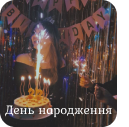
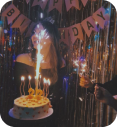
changed homescreen

diff --git a/mobile/app/(tabs)/HomeScreen.tsx b/mobile/app/(tabs)/HomeScreen.tsx
@@ -57,41 +57,102 @@ const HomeScreen: React.FC = () => {
                     </TouchableOpacity>
                 </ScrollView>
 
-                <Text style={styles.sectionTitle}>Топ пакетів</Text>
+                <Text style={styles.sectionTitle}>Топ послуг</Text>
                 <ScrollView horizontal={true} showsHorizontalScrollIndicator={false} style={styles.topPackages}>
                     <View style={styles.packageItem}>
                         <Image source={require('../../assets/images/birthday.png')} style={styles.packageImage} />
-                        <Text style={styles.packageText}></Text>
+                        <View style={styles.packageLabel}>
+                            <Text style={styles.packageLabelText}>День народження</Text>
+                        </View>
                     </View>
                     <View style={styles.packageItem}>
-                        <Image source={require('../../assets/images/wedding.png')} style={styles.packageImage} />
-                        <Text style={styles.packageText}></Text>
+                        <Image source={require('../../assets/images/birthday.png')} style={styles.packageImage} />
+                        <View style={styles.packageLabel}>
+                            <Text style={styles.packageLabelText}>День народження</Text>
+                        </View>
                     </View>
                     <View style={styles.packageItem}>
-                        <Image source={require('../../assets/images/rip.png')} style={styles.packageImage} />
-                        <Text style={styles.packageText}></Text>
+                        <Image source={require('../../assets/images/birthday.png')} style={styles.packageImage} />
+                        <View style={styles.packageLabel}>
+                            <Text style={styles.packageLabelText}>День народження</Text>
+                        </View>
                     </View>
                 </ScrollView>
 
-                <Text style={styles.topServicesTitle}>Топ послуг:</Text>
-                <View style={styles.servicesContainer}>
-                    <View style={styles.serviceItem}>
-                        <Text style={styles.serviceTitle}>Флористика</Text>
-                        <Text style={styles.serviceDescription}>— оформлення квітами та композиції.</Text>
+                <Text style={styles.topPackagesTitle}>Топ пакетів:</Text>
+                <ScrollView horizontal={false} showsVerticalScrollIndicator={false} style={styles.topPackagesWrapper}>
+                    <View style={styles.topPackageCard}>
+                        <Image source={require('../../assets/images/birthday.png')} style={styles.topPackageImage} />
+                        <View style={styles.topPackageDetails}>
+                            <Text style={styles.topPackageTitle}>День народження</Text>
+                            <View style={styles.topPackageRating}>
+                                {[...Array(5)].map((_, index) => (
+                                    <FontAwesome
+                                        key={index}
+                                        name="star"
+                                        size={16}
+                                        color={index < 3 ? '#FFD700' : '#ccc'} // 3 заполненные звезды
+                                        style={{ marginHorizontal: 4 }} // Увеличенное расстояние
+                                    />
+                                ))}
+                            </View>
+                        </View>
                     </View>
-                    <View style={styles.serviceItem}>
-                        <Text style={styles.serviceTitle}>Декор</Text>
-                        <Text style={styles.serviceDescription}>— оформлення локацій, меблі, текстиль, елементи декору.</Text>
+                    <View style={styles.topPackageCard}>
+                        <Image source={require('../../assets/images/birthday.png')} style={styles.topPackageImage} />
+                        <View style={styles.topPackageDetails}>
+                            <Text style={styles.topPackageTitle}>День народження</Text>
+                            <View style={styles.topPackageRating}>
+                                {[...Array(5)].map((_, index) => (
+                                    <FontAwesome
+                                        key={index}
+                                        name="star"
+                                        size={16}
+                                        color={index < 3 ? '#FFD700' : '#ccc'} // 3 заполненные звезды
+                                        style={{ marginHorizontal: 4 }} // Увеличенное расстояние
+                                    />
+                                ))}
+                            </View>
+                        </View>
                     </View>
-                    <View style={styles.serviceItem}>
-                        <Text style={styles.serviceTitle}>Кейтеринг</Text>
-                        <Text style={styles.serviceDescription}>— організація харчування, напої, сервірування.</Text>
+                    <View style={styles.topPackageCard}>
+                        <Image source={require('../../assets/images/birthday.png')} style={styles.topPackageImage} />
+                        <View style={styles.topPackageDetails}>
+                            <Text style={styles.topPackageTitle}>День народження</Text>
+                            <View style={styles.topPackageRating}>
+                                {[...Array(5)].map((_, index) => (
+                                    <FontAwesome
+                                        key={index}
+                                        name="star"
+                                        size={16}
+                                        color={index < 3 ? '#FFD700' : '#ccc'} // 3 заполненные звезды
+                                        style={{ marginHorizontal: 4 }} // Увеличенное расстояние
+                                    />
+                                ))}
+                            </View>
+                        </View>
                     </View>
-                    <View style={styles.serviceItem}>
-                        <Text style={styles.serviceTitle}>Фотографія та відеозйомка</Text>
-                        <Text style={styles.serviceDescription}>— фотографи, відеооператори, фотозони.</Text>
+                    <View style={styles.topPackageCard}>
+                        <Image source={require('../../assets/images/birthday.png')} style={styles.topPackageImage} />
+                        <View style={styles.topPackageDetails}>
+                            <Text style={styles.topPackageTitle}>День народження</Text>
+                            <View style={styles.topPackageRating}>
+                                {[...Array(5)].map((_, index) => (
+                                    <FontAwesome
+                                        key={index}
+                                        name="star"
+                                        size={16}
+                                        color={index < 3 ? '#FFD700' : '#ccc'} // 3 заполненные звезды
+                                        style={{ marginHorizontal: 4 }} // Увеличенное расстояние
+                                    />
+                                ))}
+                            </View>
+                        </View>
                     </View>
-                </View>
+
+                </ScrollView>
+
+
             </ScrollView>
             {/* Модальное окно фильтрации */}
             <Modal visible={isFilterVisible} transparent={true} animationType="slide">
@@ -110,7 +171,7 @@ const HomeScreen: React.FC = () => {
                                     <FontAwesome
                                         name={selectedCategories[category] ? "check-square" : "square-o"}
                                         size={24}
-                                        color={selectedCategories[category] ? "#6fa32b" : "#FF7043"}
+                                        color={selectedCategories[category] ? "#83B620" : "#83B620"}
                                     />
                                     <Text style={{ marginLeft: 8 }}>{category}</Text>
                                 </TouchableOpacity>
@@ -128,7 +189,7 @@ const HomeScreen: React.FC = () => {
                                     <FontAwesome
                                         name={selectedRating === rating ? "check-square" : "square-o"}
                                         size={24}
-                                        color={selectedRating === rating ? "#6fa32b" : "#FF7043"}
+                                        color={selectedRating === rating ? "#83B620" : "#83B620"}
                                     />
                                     <View style={styles.ratingStars}>
                                         {[...Array(rating)].map((_, i) => (
@@ -142,7 +203,7 @@ const HomeScreen: React.FC = () => {
 
                         <TouchableOpacity style={styles.applyButton} onPress={() => setFilterVisible(false)}>
                             <LinearGradient
-                                colors={['#FFAE55', '#FF7E3E']}
+                                colors={['#83B620', '#83B620']}
                                 style={styles.applyGradientButton}
                             >
                                 <Text style={styles.applyButtonText}>Застосувати</Text>
@@ -194,7 +255,7 @@ const styles = StyleSheet.create({
     placeholderText: { color: '#888' },
     filterButton: { marginLeft: 10, justifyContent: 'center', alignItems: 'center' },
     filterIcon: { width: 24, height: 24 },
-    sectionTitle: { fontSize: 18, fontWeight: 'bold', color: '#fff', marginVertical: 10, paddingHorizontal: 20 },
+    sectionTitle: { fontSize: 24, color: '#fff', marginVertical: 10, paddingHorizontal: 20 },
     topServicesTitle: {
         fontSize: 18,
         color: '#335237',
@@ -205,8 +266,12 @@ const styles = StyleSheet.create({
     categoryItem: { alignItems: 'center', marginHorizontal: 10 },
     icon: { width: 40, height: 40 },
     topPackages: { paddingHorizontal: 20, marginBottom: 10 },
-    packageItem: { width: 150, marginRight: 15, alignItems: 'center' },
-    packageImage: { width: 150, height: 150, borderRadius: 10 },
+    packageItem: {
+        width: 150,
+        marginRight: 15,
+        alignItems: 'center',
+    },
+    packageImage: { width: 150, height: 150, borderRadius: 20 },
     packageText: { color: '#fff', fontWeight: 'bold', position: 'absolute', bottom: 10, left: 10 },
     servicesContainer: {
         paddingHorizontal: 20,
@@ -267,15 +332,14 @@ const styles = StyleSheet.create({
     modalTitle: {
         fontSize: 20,
         fontWeight: 'bold',
-        color: '#6fa32b',
+        color: '#83B620',
         marginBottom: 10,
         textAlign: 'center',
         alignSelf: 'center',
         width: '100%'
     },
     filterSectionTitle: {
-        fontSize: 16,
-        fontWeight: 'bold',
+        fontSize: 24,
         color: '#333',
         marginVertical: 10,
     },
@@ -317,6 +381,62 @@ const styles = StyleSheet.create({
         color: '#fff',
         fontSize: 20,
     },
+    packageLabel: {
+        position: 'absolute',
+        bottom: 0,
+        width: '100%',
+        backgroundColor: '#6fa32b',
+        paddingVertical: 10, // Увеличено для толщины полосы
+        borderBottomLeftRadius: 15, // Увеличено для большего закругления
+        borderBottomRightRadius: 15, // Увеличено для большего закругления
+        alignItems: 'center',
+    },
+    packageLabelText: {
+        color: '#fff',
+        fontSize: 16, // Сделано крупнее для лучшей видимости
+        textAlign: 'center',
+    },
+    topPackagesTitle: {
+        fontSize: 24,
+        color: '#335237',
+        marginVertical: 10,
+        paddingHorizontal: 20,
+    },
+    topPackagesWrapper: {
+        paddingHorizontal: 20,
+        marginBottom: 10,
+    },
+    topPackageCard: {
+        borderRadius: 15,
+        overflow: 'hidden',
+        backgroundColor: '#83B620',
+        marginBottom: 10,
+    },
+    topPackageImage: {
+        width: '100%',
+        height: 100, // Уменьшенная высота изображения
+        borderTopLeftRadius: 15,
+        borderTopRightRadius: 15,
+    },
+    topPackageDetails: {
+        padding: 15, // Увеличены отступы
+        backgroundColor: '#6fa32b',
+        borderBottomLeftRadius: 15,
+        borderBottomRightRadius: 15,
+        flexDirection: 'row',
+        justifyContent: 'space-between',
+        alignItems: 'center',
+    },
+    topPackageTitle: {
+        color: '#fff',
+        fontSize: 16,
+    },
+    topPackageRating: {
+        flexDirection: 'row',
+        alignItems: 'center',
+    },
+
+
 
 });
 

diff --git a/mobile/.expo/types/router.d.ts b/mobile/.expo/types/router.d.ts
@@ -6,7 +6,7 @@ export * from 'expo-router';
 declare module 'expo-router' {
   export namespace ExpoRouter {
     export interface __routes<T extends string = string> extends Record<string, unknown> {
-      StaticRoutes: `/` | `/(tabs)` | `/(tabs)/` | `/(tabs)/HomeScreen` | `/(tabs)/Orders` | `/(tabs)/OrdersScreen` | `/(tabs)/Packeti` | `/(tabs)/ProfileOrder` | `/(tabs)/Reviews` | `/(tabs)/UserProfile` | `/(tabs)/WelcomeScreen` | `/(tabs)/Wishlist` | `/(tabs)/explore` | `/(tabs)\ProviderProfile` | `/(tabs)\ServicesProviderProfile` | `/HomeScreen` | `/Orders` | `/OrdersScreen` | `/Packeti` | `/ProfileOrder` | `/Reviews` | `/UserProfile` | `/WelcomeScreen` | `/Wishlist` | `/_sitemap` | `/explore` | `/types`;
+      StaticRoutes: `/` | `/(tabs)` | `/(tabs)/` | `/(tabs)/HomeScreen` | `/(tabs)/Orders` | `/(tabs)/OrdersScreen` | `/(tabs)/Packeti` | `/(tabs)/ProfileOrder` | `/(tabs)/ProviderProfile` | `/(tabs)/Reviews` | `/(tabs)/ServicesProviderProfile` | `/(tabs)/UserProfile` | `/(tabs)/WelcomeScreen` | `/(tabs)/Wishlist` | `/(tabs)/explore` | `/HomeScreen` | `/Orders` | `/OrdersScreen` | `/Packeti` | `/ProfileOrder` | `/ProviderProfile` | `/Reviews` | `/ServicesProviderProfile` | `/UserProfile` | `/WelcomeScreen` | `/Wishlist` | `/_sitemap` | `/explore` | `/types`;
       DynamicRoutes: never;
       DynamicRouteTemplate: never;
     }

diff --git a/.expo/README.md b/.expo/README.md
@@ -1,0 +1,15 @@
+> Why do I have a folder named ".expo" in my project?
+
+The ".expo" folder is created when an Expo project is started using "expo start" command.
+
+> What do the files contain?
+
+- "devices.json": contains information about devices that have recently opened this project. This is used to populate the "Development sessions" list in your development builds.
+- "packager-info.json": contains port numbers and process PIDs that are used to serve the application to the mobile device/simulator.
+- "settings.json": contains the server configuration that is used to serve the application manifest.
+
+> Should I commit the ".expo" folder?
+
+No, you should not share the ".expo" folder. It does not contain any information that is relevant for other developers working on the project, it is specific to your machine.
+
+Upon project creation, the ".expo" folder is already added to your ".gitignore" file.
